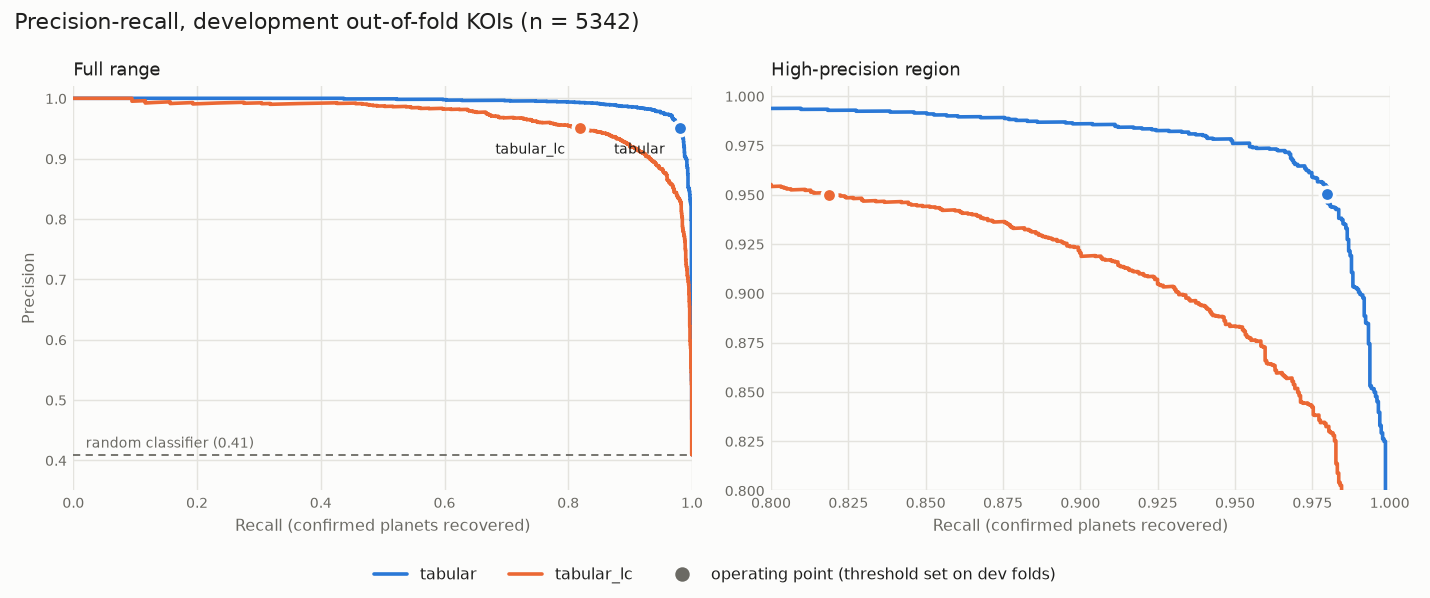
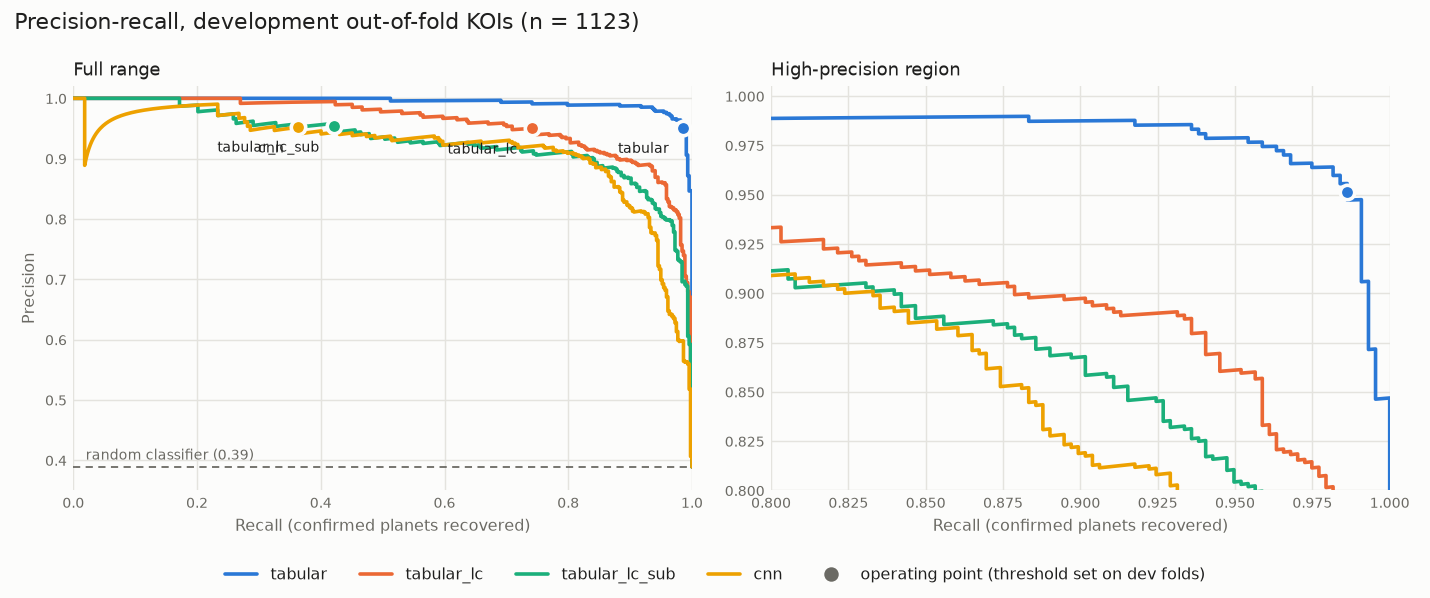
Report final results: held-out test evaluation and interpretation
- Test set (1,334 KOIs), PR-AUC: tabular 0.993, tabular_lc 0.966,
  tabular_lc_sub 0.953, cnn 0.903; the CNN trails the same-data tabular
  control by 0.051 (95% CI 0.023-0.079)
- docs/evaluation.md: findings (centroid features dominate; CNN views
  carry no absolute depth, so giant-radius eclipsing binaries are its
  most confident false positives; training-set size explains only part
  of the gap) and next steps
- docs/results.md and figures regenerated; README results summary,
  capped-build reproduction, limitations; roadmap complete
- train_cnn.py stores the torch version as a string so checkpoints load
  with weights_only=True

diff --git a/scripts/train_cnn.py b/scripts/train_cnn.py
@@ -71,7 +71,7 @@ def main() -> None:
                     "splits_created_utc": splits_meta["created_utc"],
                     "seed": seed,
                     "n_train": int(len(oof)),
-                    "torch_version": torch.__version__,
+                    "torch_version": str(torch.__version__),
                 },
             },
             model_path,

diff --git a/docs/results.md b/docs/results.md
@@ -6,6 +6,7 @@ Models:
 
 - `tabular`: gradient boosting, transit + stellar + centroid catalogue features
 - `tabular_lc`: gradient boosting, transit + stellar features (no centroid data, like the CNN)
+- `tabular_lc_sub`: as tabular_lc, trained only on KOIs with light-curve views (the CNN's training data)
 - `cnn`: two-tower 1D CNN on global and local light-curve views
 
 ## Data
@@ -19,18 +20,18 @@ Modelling sample: 6677 labelled KOIs (CONFIRMED = 1, FALSE POSITIVE = 0) on 5830
 
 ## Light-curve coverage
 
-134 of 6677 KOIs (2.0%) have light-curve views.
+2457 of 6677 KOIs (36.8%) have light-curve views.
 
 | partition | kois | with_views |
 |---|---|---|
-| development, label 0 | 3157 | 0.023 |
-| development, label 1 | 2185 | 0.014 |
-| test, label 0 | 789 | 0.028 |
-| test, label 1 | 546 | 0.013 |
+| development, label 0 | 3157 | 0.217 |
+| development, label 1 | 2185 | 0.200 |
+| test, label 0 | 789 | 0.999 |
+| test, label 1 | 546 | 1.000 |
+
+1 host stars failed in the last build run.
 
 ## Cross-validation (development folds)
-
-_Pending: `cnn` not trained. Run `python scripts/train_cnn.py`._
 
 Out-of-fold scores; each model is scored on the development KOIs it has inputs for (see the evaluation sections for a same-KOI comparison).
 
@@ -38,43 +39,82 @@ Out-of-fold scores; each model is scored on the development KOIs it has inputs f
 |---|---|---|---|---|---|
 | tabular | 5342 | 0.994 | 0.994 | 0.002 | 0.996 |
 | tabular_lc | 5342 | 0.969 | 0.969 | 0.008 | 0.980 |
+| tabular_lc_sub | 1123 | 0.931 | 0.937 | 0.039 | 0.963 |
+| cnn | 1123 | 0.917 | 0.924 | 0.015 | 0.954 |
 
 ## Evaluation: development folds
 
-_Incomplete: evaluated ['tabular', 'tabular_lc'], not ['cnn']. Re-run `python scripts/evaluate.py --split dev` once they are trained._
-
 ![Precision-recall curves](figures/evaluation_dev_pr.png)
 
-5342 KOIs scored by every model (100.0% of 5342); positive fraction 0.409. PR-AUC with 95% host-star bootstrap intervals (1000 resamples); operating threshold set for precision 0.95 on development out-of-fold scores.
+1123 KOIs scored by every model (21.0% of 5342); positive fraction 0.389. PR-AUC with 95% host-star bootstrap intervals (1000 resamples); operating threshold set for precision 0.95 on development out-of-fold scores.
 
 | model | pr_auc | ci_low | ci_high | at_threshold_precision | at_threshold_recall | at_threshold_fp | at_threshold_fn |
 |---|---|---|---|---|---|---|---|
-| tabular | 0.994 | 0.992 | 0.995 | 0.950 | 0.980 | 112 | 44 |
-| tabular_lc | 0.969 | 0.962 | 0.974 | 0.950 | 0.819 | 94 | 396 |
+| tabular | 0.994 | 0.989 | 0.997 | 0.951 | 0.986 | 22 | 6 |
+| tabular_lc | 0.960 | 0.946 | 0.973 | 0.950 | 0.741 | 17 | 113 |
+| tabular_lc_sub | 0.931 | 0.905 | 0.951 | 0.953 | 0.421 | 9 | 253 |
+| cnn | 0.917 | 0.888 | 0.942 | 0.952 | 0.364 | 8 | 278 |
 
 Paired PR-AUC differences:
 
 | comparison | difference | ci_low | ci_high | p_value |
 |---|---|---|---|---|
-| tabular - tabular_lc | 0.025 | 0.020 | 0.031 | 0.000 |
+| tabular - tabular_lc | 0.034 | 0.022 | 0.047 | 0.000 |
+| tabular - tabular_lc_sub | 0.063 | 0.043 | 0.087 | 0.000 |
+| tabular - cnn | 0.077 | 0.053 | 0.106 | 0.000 |
+| tabular_lc - tabular_lc_sub | 0.030 | 0.016 | 0.045 | 0.000 |
+| tabular_lc - cnn | 0.043 | 0.019 | 0.070 | 0.000 |
+| tabular_lc_sub - cnn | 0.014 | -0.013 | 0.042 | 0.350 |
 
 False positives rejected at the operating threshold, by Robovetter flag:
 
-| flag | n | tabular | tabular_lc |
-|---|---|---|---|
-| all false positives | 3157 | 0.965 | 0.970 |
-| not transit-like | 692 | 0.974 | 0.991 |
-| stellar eclipse | 1715 | 0.966 | 0.982 |
-| centroid offset | 1423 | 0.982 | 0.946 |
-| ephemeris match | 878 | 0.964 | 0.956 |
+| flag | n | tabular | tabular_lc | tabular_lc_sub | cnn |
+|---|---|---|---|---|---|
+| all false positives | 686 | 0.968 | 0.975 | 0.987 | 0.988 |
+| not transit-like | 149 | 0.980 | 0.993 | 1.000 | 1.000 |
+| stellar eclipse | 365 | 0.970 | 0.981 | 1.000 | 0.992 |
+| centroid offset | 329 | 0.982 | 0.960 | 0.979 | 0.988 |
+| ephemeris match | 187 | 0.979 | 0.947 | 0.973 | 0.995 |
 
 Full report: `outputs/evaluation_dev.md`.
 
 ## Evaluation: held-out test set
 
-_Pending: held-out test set not evaluated. Run `python scripts/evaluate.py --split test`._
+![Precision-recall curves](figures/evaluation_test_pr.png)
+
+1334 KOIs scored by every model (99.9% of 1335); positive fraction 0.409. PR-AUC with 95% host-star bootstrap intervals (1000 resamples); operating threshold set for precision 0.95 on development out-of-fold scores.
+
+| model | pr_auc | ci_low | ci_high | at_threshold_precision | at_threshold_recall | at_threshold_fp | at_threshold_fn |
+|---|---|---|---|---|---|---|---|
+| tabular | 0.993 | 0.984 | 0.998 | 0.962 | 0.984 | 21 | 9 |
+| tabular_lc | 0.966 | 0.947 | 0.982 | 0.978 | 0.734 | 9 | 145 |
+| tabular_lc_sub | 0.953 | 0.935 | 0.969 | 0.977 | 0.394 | 5 | 331 |
+| cnn | 0.903 | 0.870 | 0.934 | 0.937 | 0.518 | 19 | 263 |
+
+Paired PR-AUC differences:
+
+| comparison | difference | ci_low | ci_high | p_value |
+|---|---|---|---|---|
+| tabular - tabular_lc | 0.028 | 0.012 | 0.046 | 0.000 |
+| tabular - tabular_lc_sub | 0.040 | 0.026 | 0.056 | 0.000 |
+| tabular - cnn | 0.091 | 0.063 | 0.121 | 0.000 |
+| tabular_lc - tabular_lc_sub | 0.013 | 0.001 | 0.025 | 0.014 |
+| tabular_lc - cnn | 0.063 | 0.035 | 0.094 | 0.000 |
+| tabular_lc_sub - cnn | 0.051 | 0.023 | 0.079 | 0.000 |
+
+False positives rejected at the operating threshold, by Robovetter flag:
+
+| flag | n | tabular | tabular_lc | tabular_lc_sub | cnn |
+|---|---|---|---|---|---|
+| all false positives | 788 | 0.973 | 0.989 | 0.994 | 0.976 |
+| not transit-like | 175 | 0.966 | 0.994 | 1.000 | 0.983 |
+| stellar eclipse | 425 | 0.969 | 0.995 | 0.995 | 0.981 |
+| centroid offset | 356 | 0.994 | 0.980 | 0.989 | 0.972 |
+| ephemeris match | 209 | 0.995 | 1.000 | 0.995 | 0.990 |
+
+Full report: `outputs/evaluation_test.md`.
 
 ## Provenance
 
-- Generated: 2026-10-31T11:24:47+00:00 from commit `5b8317f (uncommitted changes)`; config `default.yaml` (SHA-256 `b1a9e591940e…`)
+- Generated: 2026-10-31T14:12:12+00:00 from commit `3352466 (uncommitted changes)`; config `default.yaml` (SHA-256 `2b037c103631…`)
 - KOI catalogue: NASA Exoplanet Archive cumulative table, retrieved 2026-10-31T03:14:15+00:00, 9564 rows, SHA-256 `a85348f20082…`

diff --git a/README.md b/README.md
@@ -3,13 +3,27 @@
 Classifying NASA Kepler Objects of Interest (KOIs) as confirmed planets or false positives,
 using a 1D CNN on phase-folded light curves and a tabular baseline on catalogue features.
 
-> Status: all pipeline code is in place. The full light-curve view build is running; CNN
-> training and the single held-out test evaluation follow it. See the roadmap below.
-
 ## Results
 
-[docs/results.md](docs/results.md) is generated from pipeline outputs by
-`scripts/make_report.py`; sections not yet run are marked pending. Background:
+Held-out test set (1,334 KOIs), PR-AUC with 95% host-star bootstrap intervals:
+
+| model | inputs | test PR-AUC |
+|---|---|---|
+| `tabular` | transit + stellar + centroid catalogue features | 0.993 (0.984-0.998) |
+| `tabular_lc` | transit + stellar features | 0.966 (0.947-0.982) |
+| `tabular_lc_sub` | as above, trained on the CNN's training KOIs only | 0.953 (0.935-0.969) |
+| `cnn` | global and local light-curve views | 0.903 (0.870-0.934) |
+
+- Catalogue centroid diagnostics are the strongest single source of information.
+- The light-curve CNN trails a tabular model trained on the same KOIs by 0.051 PR-AUC (95%
+  CI 0.023-0.079). Its views are normalised to unit depth, so it cannot see how deep a
+  transit is, and its most confident false positives are giant-radius eclipsing binaries
+  that catalogue features reject easily.
+- The CNN was trained on 21% of the development KOIs, because light curves were built for all
+  test stars but only 1,000 development stars.
+
+Interpretation and next steps: [docs/evaluation.md](docs/evaluation.md). All generated
+numbers: [docs/results.md](docs/results.md), produced by `scripts/make_report.py`. Background:
 
 - [Catalogue findings](docs/catalogue_findings.md): classes, provenance, leakage evidence
 - [Leakage audit](docs/leakage_audit.md) and [results](docs/leakage_audit_results.md)
@@ -40,14 +54,16 @@ Run from the repository root, in order. Times are for a 12-core CPU without a GP
 | Leakage audit | `python scripts/audit_leakage.py --strict` | `outputs/leakage_audit_results.md` | seconds |
 | Splits | `python scripts/make_splits.py` | `data/processed/splits.csv` (created once; `--force` to regenerate) | seconds |
 | Tabular baselines | `python scripts/train_tabular.py` and `python scripts/train_tabular.py --groups transit stellar --name tabular_lc` | `outputs/<name>_oof.csv`, `outputs/<name>_cv.md`, `models/<name>.joblib` | ~1 min each |
-| Light-curve views | `python scripts/build_views.py --workers 8` | `data/processed/views/<kepid>.npz` (resumable) | ~12 h |
+| Light-curve views | `python scripts/build_views.py --workers 16 --dev-stars 1000` | `data/processed/views/<kepid>.npz` (resumable) | ~1.5 h (all stars: ~6-11 h) |
+| Matched tabular control | `python scripts/train_tabular.py --views-only --groups transit stellar --name tabular_lc_sub` | as above | < 1 min |
 | CNN | `python scripts/train_cnn.py` | `outputs/cnn_oof.csv`, `outputs/cnn_cv.md`, `models/cnn.pt` | ~20 min |
 | Development evaluation | `python scripts/evaluate.py --split dev` | `outputs/evaluation_dev.{md,json,png}` | seconds |
 | Test evaluation | `python scripts/evaluate.py --split test` | `outputs/evaluation_test.{md,json,png}`: run **once**, last | seconds |
 | Report | `python scripts/make_report.py` | `docs/results.md`, `docs/figures/` | seconds |
 
-The view build downloads about 41 GB of Kepler FITS files from MAST into
-`paths.lightcurve_dir` (`configs/default.yaml`). Point it at a local folder outside any
+The view build downloads about 7 MB of Kepler FITS files per star from MAST into
+`paths.lightcurve_dir` (`configs/default.yaml`): ~15 GB for the capped build used here, ~41 GB
+for all stars. Point it at a local folder outside any
 cloud-synced directory; the processed views are only a few MB. Interrupted builds resume
 where they stopped, and stars that fail are listed in `outputs/views_failures.csv` and
 retried on the next run.
@@ -104,8 +120,8 @@ docs/                      Findings, methodology notes and generated results
   development out-of-fold scores. The test set is scored once, at the end.
 - **Fair comparison:** all models are evaluated on the same KOIs. The CNN, which sees no
   centroid data, is compared with both the full tabular baseline and a transit + stellar
-  variant. PR-AUC intervals and model differences come from a paired bootstrap over host
-  stars.
+  variant, and with that variant trained on the CNN's own training KOIs. PR-AUC intervals
+  and model differences come from a paired bootstrap over host stars.
 
 ## Limitations
 
@@ -119,8 +135,8 @@ docs/                      Findings, methodology notes and generated results
 - **Light-curve processing.** Long-cadence data only; moving-median detrending may distort
   very long transits; no dedicated odd/even or secondary-eclipse views (extensions in later
   AstroNet-style work).
-- **Modest CNN.** A small network trained on CPU with fixed hyperparameters and one seed;
-  KOIs without usable light curves are excluded from CNN comparisons.
+- **Modest CNN.** A small network trained on CPU with fixed hyperparameters and one seed, on
+  ~21% of the development KOIs (capped light-curve build); its views carry no absolute depth.
 
 ## Roadmap
 
@@ -129,9 +145,7 @@ docs/                      Findings, methodology notes and generated results
 3. [x] Label mapping and leakage audit
 4. [x] Host-star grouped splitting
 5. [x] Tabular baseline
-6. [ ] Light-curve pipeline: detrending, phase folding, global/local views (code done; full
-   build running)
-7. [ ] 1D CNN (code done; training awaits the view build)
-8. [ ] Precision-recall evaluation and false-positive analysis (code done; dev results for
-   tabular models; CNN and test evaluation pending)
-9. [ ] Results report and documentation (generator done; final interpretation pending)
+6. [x] Light-curve pipeline: detrending, phase folding, global/local views
+7. [x] 1D CNN
+8. [x] Precision-recall evaluation and false-positive analysis
+9. [x] Results report and documentation

diff --git a/docs/evaluation.md b/docs/evaluation.md
@@ -24,31 +24,68 @@ Code: `exoplanet.evaluation` (`pr`, `false_positives`, `plots`, `metrics`).
   confirmed planets is broken down by SNR and period quartiles, and each model's most
   confident mistakes are listed.
 
-Models compared (`evaluation.models` in the config): `tabular` (transit + stellar +
-centroid features), `tabular_lc` (transit + stellar: the like-for-like comparison for the
-light-curve CNN, which sees no centroid data) and `cnn`.
+Models compared (`evaluation.models` in the config):
 
-## Development results so far (tabular models)
+- `tabular`: gradient boosting on transit + stellar + centroid catalogue features;
+- `tabular_lc`: transit + stellar only, since the light-curve CNN sees no centroid data;
+- `tabular_lc_sub`: as `tabular_lc`, trained only on the development KOIs that have
+  light-curve views. The capped view build leaves the CNN ~21% of the development KOIs, so
+  this control separates "light curve vs catalogue" from "less training data";
+- `cnn`: the two-tower CNN on global and local views.
 
-On all 5,342 development KOIs (out-of-fold):
+All four were final, with thresholds fixed from development scores, before the test set was
+scored. The test evaluation was run once (a first attempt crashed while loading the CNN
+checkpoint, before any test score was computed or saved).
 
-| model | PR-AUC | 95% CI | recall at precision 0.95 |
+## Results
+
+Full generated tables: [results.md](results.md). Test set: 1,334 of 1,335 KOIs (one star had
+no usable light curve).
+
+| model | dev PR-AUC (95% CI) | test PR-AUC (95% CI) | test recall / precision at dev threshold |
 |---|---|---|---|
-| tabular | 0.994 | 0.992-0.995 | 0.980 |
-| tabular_lc | 0.969 | 0.962-0.974 | 0.819 |
+| tabular | 0.994 (0.989-0.997) | 0.993 (0.984-0.998) | 0.984 / 0.962 |
+| tabular_lc | 0.960 (0.946-0.973) | 0.966 (0.947-0.982) | 0.734 / 0.978 |
+| tabular_lc_sub | 0.931 (0.905-0.951) | 0.953 (0.935-0.969) | 0.394 / 0.977 |
+| cnn | 0.917 (0.888-0.942) | 0.903 (0.870-0.934) | 0.518 / 0.937 |
 
-Centroid features add 0.025 PR-AUC (95% CI 0.020-0.031). Without them, recall at 95%
-precision falls most for low-SNR (0.67 vs 0.97) and short-period (0.66 vs 0.96) planets.
-`tabular_lc` rejects centroid-offset false positives less often (0.946 vs 0.982) but
-rejects stellar eclipses and non-transit-like signals slightly more often.
+Development figures are on the 1,123 development KOIs with views (the only ones every model
+can score), so they differ slightly from the tabular-only numbers in
+[tabular_baseline.md](tabular_baseline.md).
 
-Notes from the error lists:
+### Findings
 
-- 52 KOIs lack transit-fit values (SNR, depth, radius); 51 are false positives, so
-  missingness carries a weak signal (missing-indicator AUC 0.506 in the leakage audit). One
-  such confirmed planet (K07368.01) receives a near-zero score.
-- One false positive (K00242.01) carries no Robovetter flag; it is among the tabular
-  model's highest-scored false positives.
+1. **Centroid diagnostics dominate.** The full tabular model is best everywhere (test
+   PR-AUC 0.993; recall 0.98 at precision 0.96). Removing centroid features costs 0.028
+   PR-AUC (95% CI 0.012-0.046) and a quarter of the recall at the operating point.
+2. **The CNN is behind a tabular model trained on the same data.** On the test set the CNN
+   trails `tabular_lc_sub` by 0.051 PR-AUC (95% CI 0.023-0.079). On the smaller development
+   comparison the gap (0.014, CI -0.013 to 0.042) was not significant; the test set is
+   larger and is the definitive measurement.
+3. **Training-set size matters, but explains only part of the gap.** Training the transit +
+   stellar model on the CNN's 21% subset costs 0.013 test PR-AUC (CI 0.001-0.025). Most of
+   the CNN's deficit relative to `tabular_lc` (0.063) remains after matching data.
+4. **The CNN cannot see transit depth.** Each view is normalised so the transit minimum is
+   -1, as in AstroNet, so a 1% stellar eclipse and a 100 ppm planet transit can look alike.
+   Its most confident false positives include KOIs with implied radii of 54 and 57 Earth
+   radii (K03873.01, K04939.01), which the tabular models reject easily: `koi_prad` is their
+   most important feature. This is the most likely main cause of the CNN's weaker ranking
+   and of the false positives among its highest scores (the ragged low-recall end of its
+   curve).
+5. **Where the CNN helps.** At the dev-chosen thresholds the CNN recovers more planets than
+   `tabular_lc_sub` (0.52 vs 0.39 recall) at somewhat lower precision (0.94 vs 0.98), with
+   the largest gains for high-SNR planets (0.77 vs 0.40 in the top SNR quartile). Its
+   threshold also transferred less well: test precision 0.937 against the 0.95 target.
+6. **Hard cases for every light-curve-only model** are low-SNR and short-period planets
+   (CNN recall 0.20 and 0.24 in the lowest quartiles; `tabular_lc` 0.53 and 0.62).
+   Several of the CNN's most confidently missed planets belong to multi-planet systems
+   (K00904.02, K00904.03, K00282.03); one possible cause, not verified here, is sibling
+   planets' transits left in the folded light curve.
 
-CNN results and the single test-set evaluation will be added once the light-curve views are
-built and the CNN is trained.
+### Most promising next steps
+
+- Give the CNN the information its normalised views remove: transit depth or planet radius
+  as scalar inputs, or an unnormalised view.
+- Train the CNN on the full development set (build the remaining ~3,700 development stars).
+- Add secondary-eclipse and odd/even views, and remove sibling planets' transits before
+  folding.
